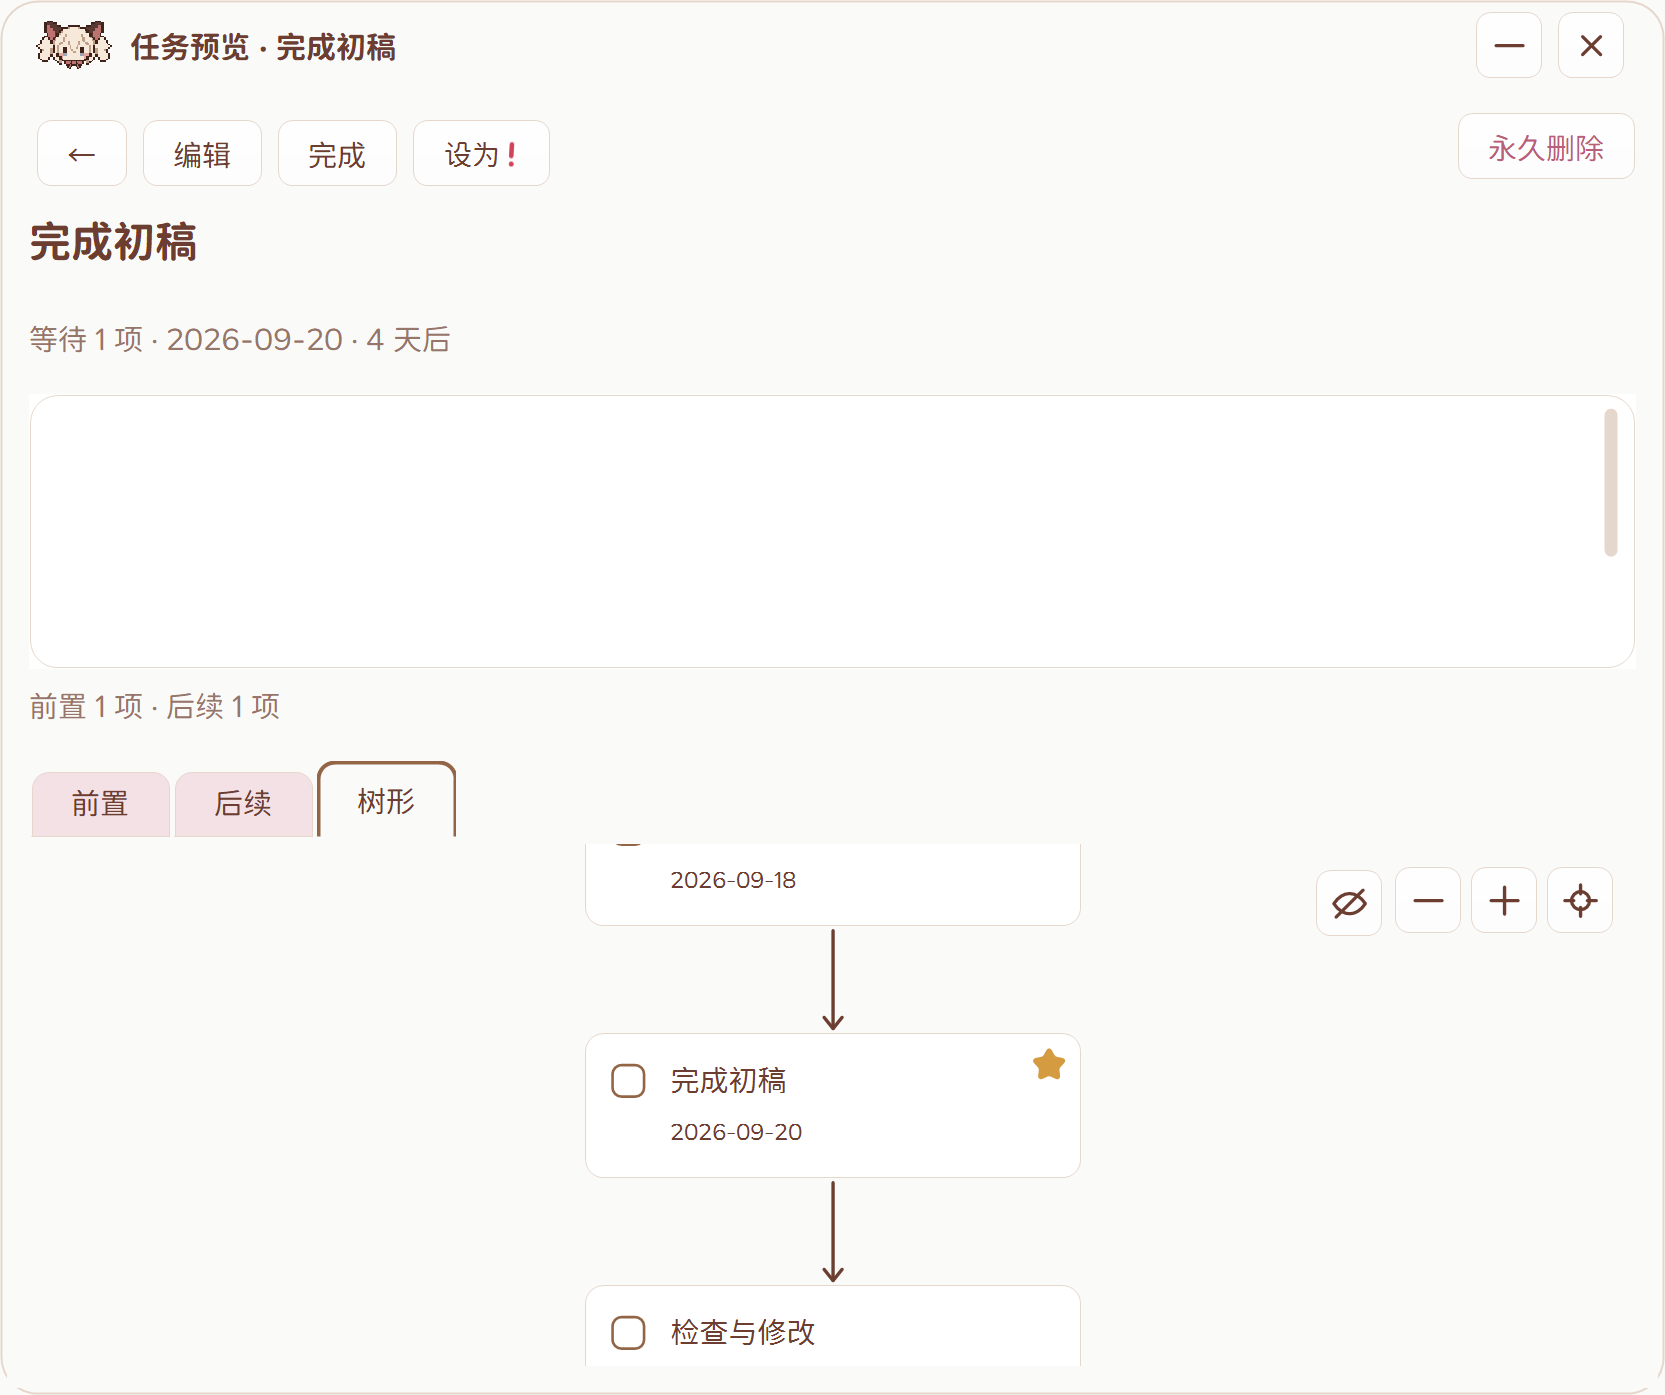
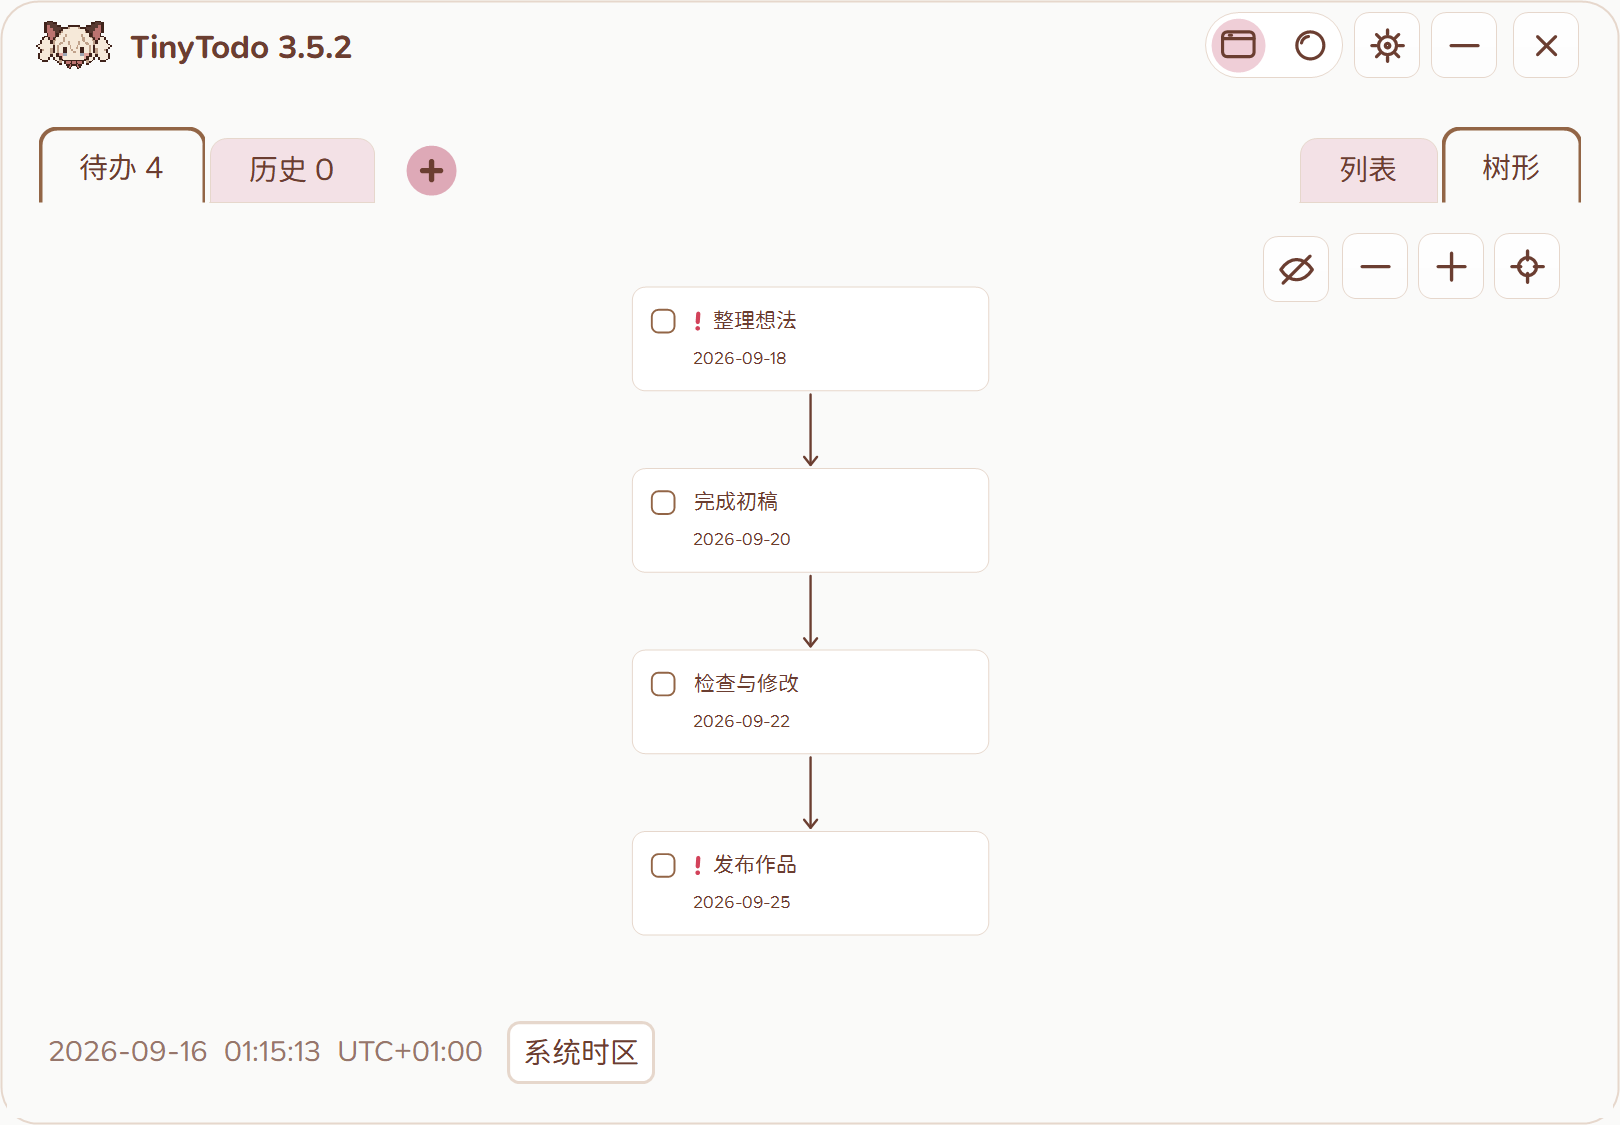
Show complete task graph in README

diff --git a/tools/CaptureDocs.cs b/tools/CaptureDocs.cs
@@ -28,12 +28,10 @@ internal static class CaptureDocs
         using (var main = new MainForm(store, new DataLocations(root)))
         {
             main.Show(); Save(main, "tasks");
-            using (var preview = new TaskPreview(store, draft.Id))
-            {
-                preview.Show(main); Application.DoEvents();
-                Children(preview).OfType<TaskViews>().Single().SelectView(2);
-                Save(preview, "tree"); preview.Close();
-            }
+            var views = Children(main).OfType<TaskViews>().Single();
+            views.SelectView(2); Application.DoEvents();
+            views.Graph.ZoomAt(.72F, new Point(views.Graph.Width / 2, views.Graph.Height / 2));
+            views.Graph.CenterCurrent(); Save(main, "tree");
         }
     }
 }
